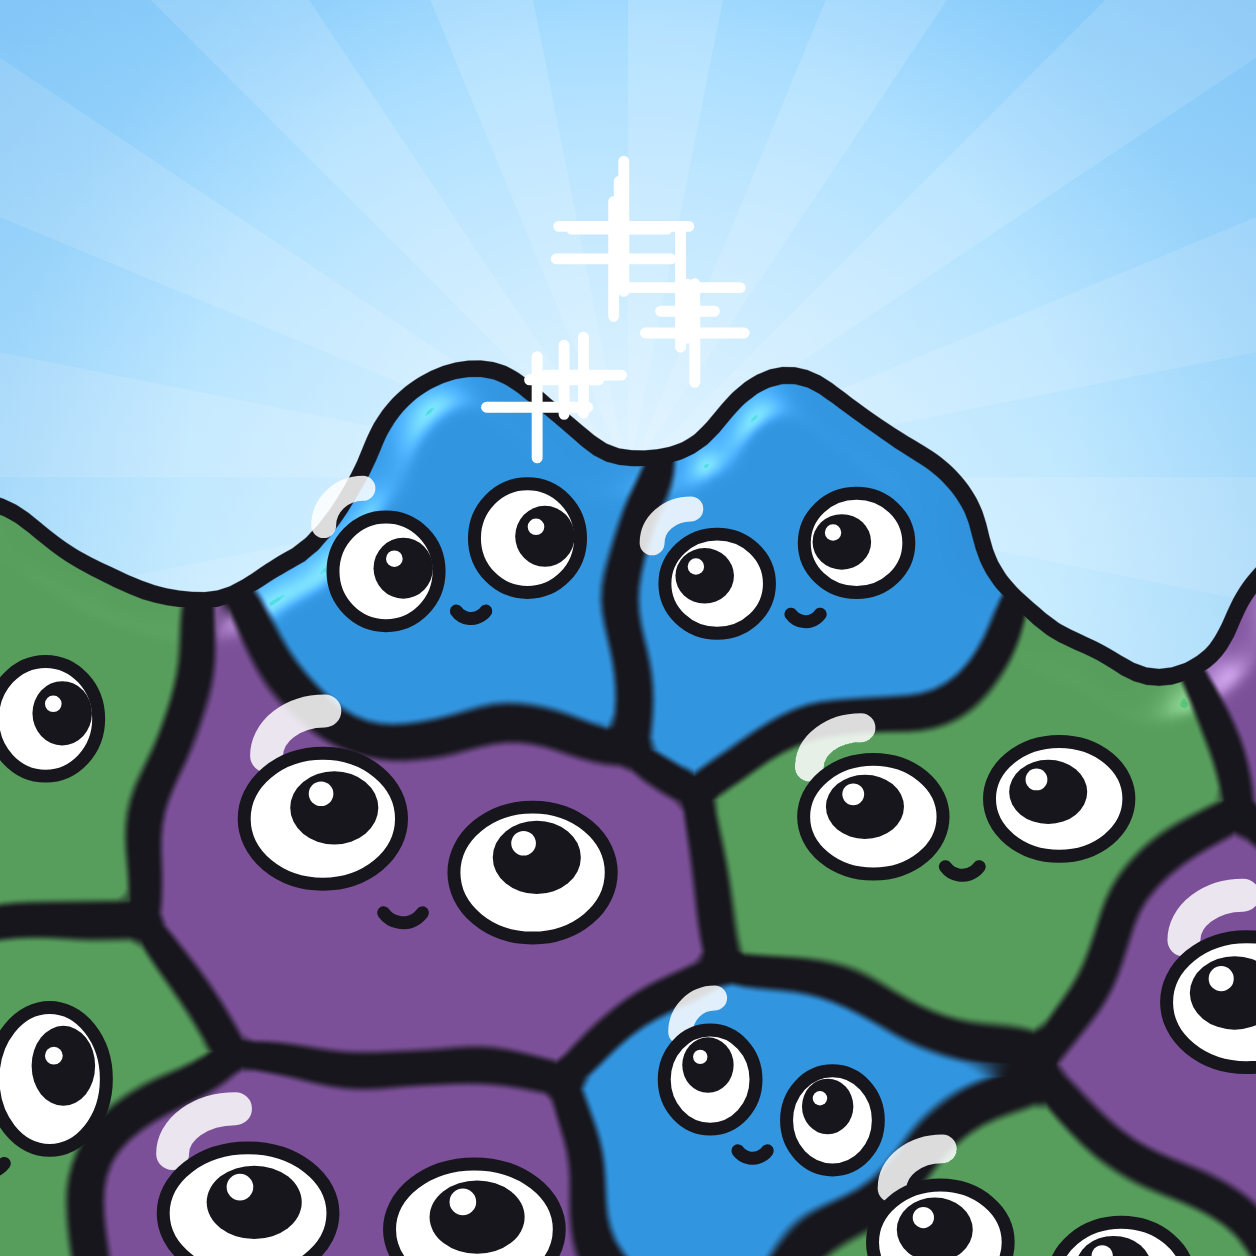
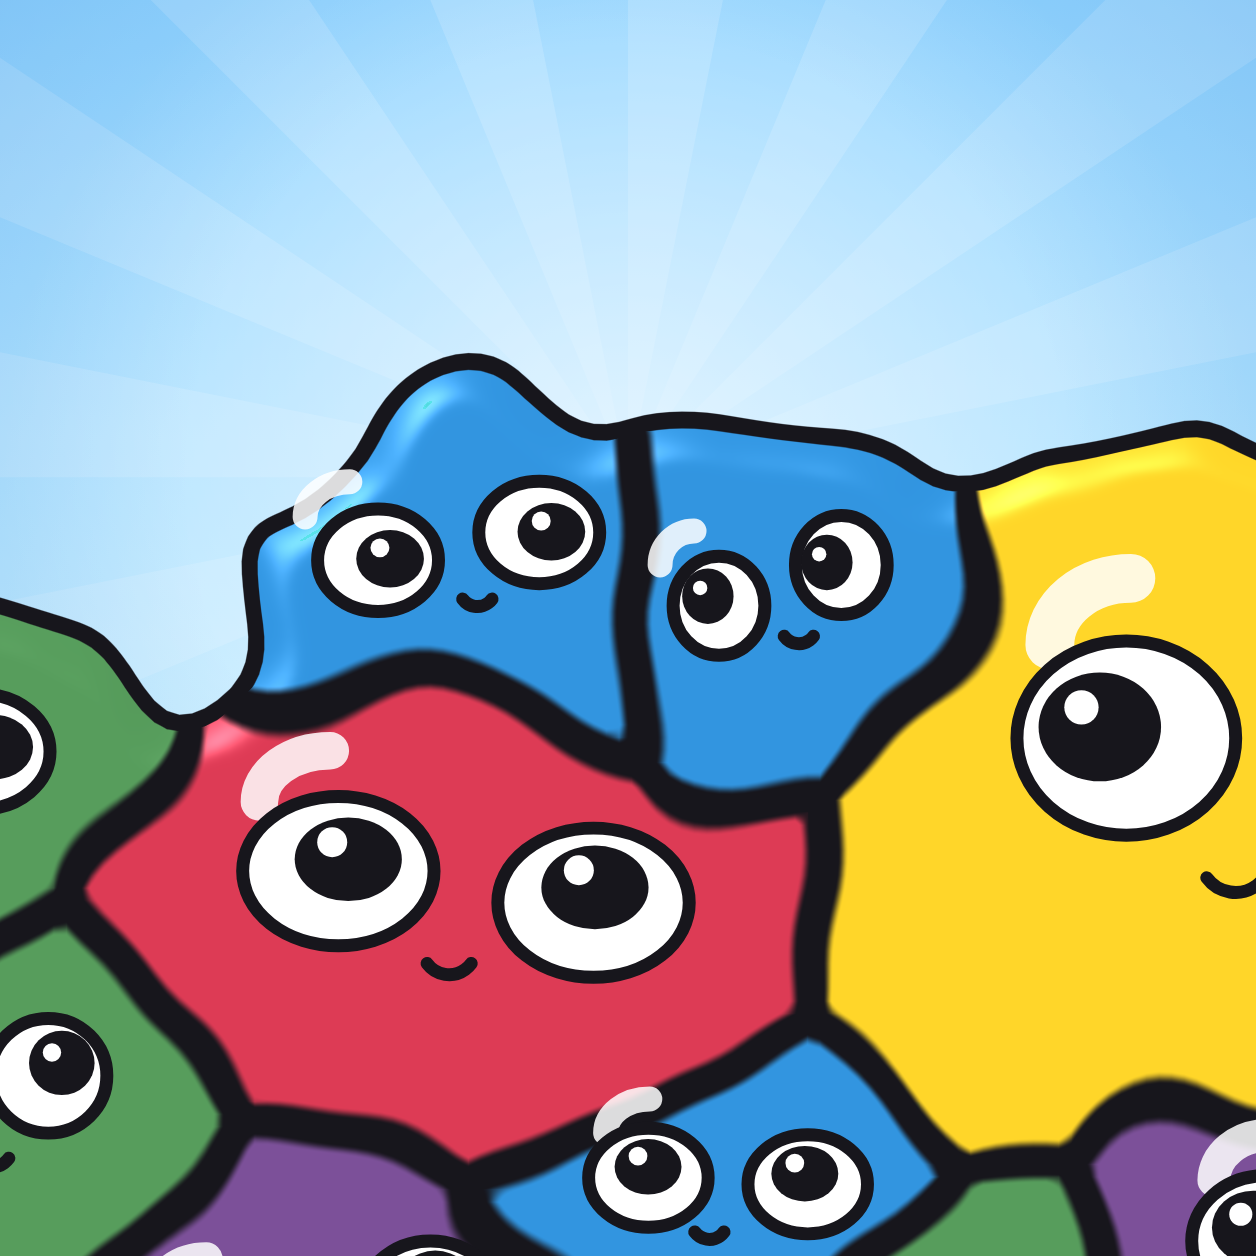
Thumbs da Poki: fusao-azul com apoio, fusao-cheia e sem estrelas
Pedidos de 2026-10-17 (docs/autoria.md):
- fusao-azul: o par se apoia num vermelho (nivel 4) e num amarelo (nivel 6) atras
  (opcao apoio de fusaoInicial)
- fusao-cheia (nova): a azul com uma fileira de cinco soltos por cima do par e o
  quadro sem ceu (opcao teto)
- sem as estrelas do encosto nas quatro fusoes de cores calmas (pareciam uma letra
  japonesa em cima do azul)
- opcoes e comparativos regerados; escolha final ainda pendente

Claude-Session: https://claude.ai/code/session_01NYogyBzEhtJefcAeRbgrnr

diff --git a/tools/thumb.html b/tools/thumb.html
@@ -80,10 +80,10 @@ function puxar(c, a, b, v, quadros) {
   }
 }
 /**
- * O empurrao do encosto (o amasso de quem vai fundir) e as estrelas no ponto de encosto, numa
- * escala e do tamanho do par (1 no nivel 4). Devolve o ponto de encosto.
+ * O empurrao do encosto (o amasso de quem vai fundir) e, se pedidas, as estrelas no ponto de
+ * encosto, numa escala e do tamanho do par (1 no nivel 4). Devolve o ponto de encosto.
  */
-function encostar(c, a, b, e) {
+function encostar(c, a, b, e, estrelas = true) {
   for (let i = 0; i < c.m.n; i++) {
     if (c.m.sl[i] === a.idx) c.m.vx[i] = 6 * (b.cx > a.cx ? 1 : -1);
     if (c.m.sl[i] === b.idx) c.m.vx[i] = -6 * (b.cx > a.cx ? 1 : -1);
@@ -91,27 +91,33 @@ function encostar(c, a, b, e) {
   rodar(c, 0.07);
   const px = (a.cx * b.raio0 + b.cx * a.raio0) / (a.raio0 + b.raio0);
   const py = (a.cy + b.cy) / 2;
-  for (let k = 0; k < 9; k++) c.vfx.brilho(px + ((k % 3) - 1) * 0.3 * e, py + (1.0 + (((k * 5) % 3) - 1) * 0.35) * e);
+  if (estrelas) for (let k = 0; k < 9; k++) c.vfx.brilho(px + ((k % 3) - 1) * 0.3 * e, py + (1.0 + (((k * 5) % 3) - 1) * 0.35) * e);
   rodar(c, 0.12);
   return [px, py];
 }
 /**
  * O estilo da fusao com as cores do comeco (azul, verde e lilas: mais calmas que o vermelho) e
  * o quadro cheio: o par de iguais grande no alto da pilha, ladeado e apoiado em slimes de
- * tamanho parecido, e o ceu so no alto, com as estrelas do encosto. A pilha e uma grade em favo
+ * tamanho parecido, e o ceu so no alto. Sem as estrelas do encosto (pedido do usuario: em cima do
+ * azul pareciam uma letra japonesa). A pilha e uma grade em favo
  * (fileiras de 4 e 5 desencontradas) pintada para que so o par seja igual entre os que se tocam
  * (a thumb diz "iguais se juntam"); as fileiras sao postas no lugar e a fisica so assenta. O par
  * cai em cima dos dois do meio e os dois escorregam para o mesmo vale: o amasso da fusao.
  * Com x e y os outros dois niveis calmos (o k reaparece embaixo, longe do par, como numa
  * partida):  [y, k, k, x]  [k, x, y, k]  [x, y, k, x, y]  [k, x, y, k]  (de cima para baixo)
  * @param {number} k nivel do par @param {number} x @param {number} y @param {number} semente
- * @param {{ lado: number, alto: number }} Q quadro: lado em diametros do par, altura do encosto (0..1)
+ * @param {{ lado?: number, alto?: number, lados?: number[], apoio?: number[], teto?: number[][], assenta?: number }} Q
+ *   quadro (lado em diametros do par, altura do encosto de 0 a 1) e, se pedidos, os niveis
+ *   colados nos lados do par ([esquerda, direita], padrao [y, x]), os dois em que ele se apoia
+ *   (padrao [x, y]) e os soltos por cima ([nivel, x a partir do encosto]: o quadro todo de
+ *   slime, sem ceu), com os quadros que eles assentam
  */
-function fusaoInicial(k, x, y, semente, Q = { lado: 2.5, alto: 0.54 }) {
+function fusaoInicial(k, x, y, semente, Q = {}) {
+  const { lado: emD = 2.5, alto = 0.54, lados = [y, x], apoio = [x, y], teto = null, assenta = 40 } = Q;
   const c = novoMundo(semente);
   const W = 1.9;
   let topo = 0;
-  for (const fila of [[k, x, y, k], [x, y, k, x, y], [k, x, y, k]]) {
+  for (const fila of [[k, x, y, k], [x, y, k, x, y], [k, ...apoio, k]]) {
     fila.forEach((n, i) => slime(c.m, n, (i - (fila.length - 1) / 2) * W, topo + 0.1 + diametroNivel(n) / 2));
     rodar(c, 0.6);
     topo = 0;
@@ -120,8 +126,9 @@ function fusaoInicial(k, x, y, semente, Q = { lado: 2.5, alto: 0.54 }) {
   const d = diametroNivel(k);
   const a = slime(c.m, k, -d / 2, topo + 0.1 + d / 2);
   const b = slime(c.m, k, d / 2, topo + 0.1 + d / 2);
-  const e = slime(c.m, y, -d - diametroNivel(y) / 2 - 0.05, topo + 0.1 + diametroNivel(y) / 2);
-  const f = slime(c.m, x, d + diametroNivel(x) / 2 + 0.05, topo + 0.1 + diametroNivel(x) / 2);
+  const [le, ld] = lados.map(diametroNivel);
+  const e = slime(c.m, lados[0], -d - le / 2 - 0.05, topo + 0.1 + le / 2);
+  const f = slime(c.m, lados[1], d + ld / 2 + 0.05, topo + 0.1 + ld / 2);
   // o par se puxa e os vizinhos de lado apertam (o quadro cheio, sem fresta de ceu)
   for (let q = 0; q < 90; q++) {
     for (let i = 0; i < c.m.n; i++) {
@@ -130,12 +137,18 @@ function fusaoInicial(k, x, y, semente, Q = { lado: 2.5, alto: 0.54 }) {
     }
     puxar(c, a, b, 0.2, 1);
   }
-  const [px, py] = encostar(c, a, b, 1);
-  const lado = d * Q.lado;
-  const y0 = py - lado * Q.alto;
-  // as estrelas ficam do tamanho das da fusao (sem o zoom do quadro), centradas no encosto
-  const escala = d / diametroNivel(4);
-  return { ...c, janela: [px - lado / 2, y0, px + lado / 2, y0 + lado], olhar: [px, py + d * 0.1], foco: [px, py + d * 0.2], heroi: HEX[k - 1], estrelas: [px, py, escala] };
+  if (teto) {
+    // o teto: todos juntos acima da pilha, assentados so um instante (sem esmagar o par)
+    let alto2 = 0;
+    for (const s of c.m.vivos()) alto2 = Math.max(alto2, s.topo);
+    const meio = (a.cx + b.cx) / 2;
+    for (const [n, dx] of teto) slime(c.m, n, meio + dx, alto2 + 0.1 + diametroNivel(n) / 2);
+    puxar(c, a, b, 0.12, assenta);
+  }
+  const [px, py] = encostar(c, a, b, 1, false);
+  const lado = d * emD;
+  const y0 = py - lado * alto;
+  return { ...c, janela: [px - lado / 2, y0, px + lado / 2, y0 + lado], olhar: [px, py + d * 0.1], foco: [px, py + d * 0.2], heroi: HEX[k - 1] };
 }
 
 /**
@@ -218,10 +231,16 @@ const CENAS = {
     const missil = { x: a.cx, y: a.cy, r: a.raio0, cor: HEX[4], t: 0.665, choro: 0.3, impacto: 0.75, origem: [1.08, -0.05] };
     return { ...c, janela: [a.cx - lado * 0.42, y0, a.cx + lado * 0.58, y0 + lado], olhar: [a.cx + 2.5, a.cy + 2.5], foco: [a.cx, a.cy], heroi: HEX[4], missil };
   },
-  // as tres de cores calmas (pedido de 2026-10-15): o par azul, o verde e o lilas
-  'fusao-azul': () => fusaoInicial(1, 3, 2, 31),
+  // as tres de cores calmas (pedido de 2026-10-15): o par azul, o verde e o lilas; o azul
+  // com um vermelho e um amarelo atras do par (pedido seguinte), que fazem o azul saltar
+  'fusao-azul': () => fusaoInicial(1, 3, 2, 36, { apoio: [4, 6] }),
   'fusao-verde': () => fusaoInicial(2, 1, 3, 34),
   'fusao-lilas': () => fusaoInicial(3, 2, 1, 34, { lado: 2.5, alto: 0.5 }),
+  // a azul com o icone todo de slime (pedido seguinte): uma fileira solta por cima do par e o
+  // quadro baixo o bastante para nao sobrar ceu
+  'fusao-cheia': () => fusaoInicial(1, 3, 2, 36, {
+    apoio: [4, 6], teto: [[6, -2.9], [3, -1.3], [4, 0], [2, 1.5], [5, 3.1]], alto: 0.65, lado: 2.4, assenta: 38,
+  }),
   close() {
     // de perto: um uva grande no alto da pilha olhando para quem ve o tile (o rosto ocupa o
     // quadro: o mais legivel nos tiles pequenos)
@@ -358,11 +377,7 @@ function thumb(cv, s) {
   ctx.drawImage(glcv, 0, 0);
   desenharRostos(ctx, m, cam, 1, t, { olhar: cena.olhar, estilo: 'classico' });
   desenharReflexos(ctx, cam, 1, m.paredes, potes);
-  if (cena.estrelas) {
-    const [ex, ey, e] = cena.estrelas;
-    const [sx, sy] = paraTela(cam, ex, ey);
-    vfx.desenhar(ctx, { s: cam.s * e, cx: ex, cy: ey, sx, sy }, 1);
-  } else vfx.desenhar(ctx, cam, 1);
+  vfx.desenhar(ctx, cam, 1);
   if (cena.missil) {
     // a reticula travada e o missil saindo do canto de baixo (onde fica o botao da mira)
     const M = cena.missil;

diff --git a/docs/autoria.md b/docs/autoria.md
@@ -111,6 +111,17 @@ são dele; o código segue estas notas.
   das cores escolhidas olhando as variantes. Todas passam na régua da Poki; o aviso de contraste
   (régua nossa) cai porque os cantos agora são slimes, não céu. Lado a lado em
   `marketing/thumb/comparar.png` (tiles em `comparar-tiles.png`). **Escolha pendente do usuário.**
+- Pedido seguinte: **"Faça a fusão azul com um slime vermelho e amarelo atrás"**. Na fusao-azul o
+  par agora se apoia num vermelho (nível 4) e num amarelo (nível 6), que sobe por trás do azul da
+  direita (opção `apoio` de `fusaoInicial`). Testados também os dois ladeando o par: ficavam quase
+  todos cortados pela borda. Com o fundo quente o azul salta até no tile de 94 px.
+- Pedido seguinte: **"Faça um que cobre o ícone inteiro de slime"**. Nova opção **fusao-cheia**: a
+  azul com uma fileira de cinco soltos por cima do par (lilás e verde nos lados, um vermelho no
+  meio, amarelo e laranja nos cantos) e o quadro baixo o bastante para não sobrar céu (medido:
+  nenhum pixel de céu). Os olhos do vermelho de cima ficam um pouco cortados pela borda.
+- **"Tira a marca em cima do azul, parece uma letra japonesa"** (print com as estrelas
+  circuladas): as estrelas do encosto saíram das quatro fusões de cores calmas (azul, verde,
+  lilás e cheia). As outras opções (fusao, arcoiris, lava, close) ainda têm estrelas.
 
 ## 2026-10-15: borda, míssil, botões, nível 13, skins e sons
 Pedidos com prints anotados do Merge Lab (plano em
